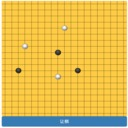
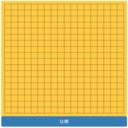
make corner look like corner

diff --git a/game.min.html b/game.min.html
@@ -101,17 +101,17 @@
               
                 <img style = "position:absolute;top:0;left:0;height:100%" ng-src = "imgs/pass0.gif" 
                      ng-show="passes === 0"
-					 ng-click="passClicked()">
+                     ng-click="passClicked()">
                     
                 
                 <img style = "position:absolute;top:0;left:0;height:100%" ng-src = "imgs/pass1.gif" 
                      ng-show="passes === 1"
-					 ng-click="passClicked()">
+                     ng-click="passClicked()">
                     
               
                 <img style = "position:absolute;top:0;left:0;height:100%" ng-src = "imgs/pass2.gif" 
                      ng-show="passes > 1"
-					 ng-click="passClicked()">
+                     ng-click="passClicked()">
         -->
                     
                
@@ -148,20 +148,147 @@
                 id="{{'board' + row + 'x' + col}}"
                 ng-class="{slowlyAppear: shouldSlowlyAppear(row, col),
                         black: board[row][col] === 'X', white: board[row][col] === 'O', grid:false}">
-
-                <svg id="Lines" width="101%" height="101%"
+         <div ng-if="(row != 0 && col != 0) && (row != numberOfRowsAndCols - 1 && col != numberOfRowsAndCols - 1)">
+                <svg id="Lines" width="100.6%" height="100.6%"
         style=" position:absolute; z-index: -1; ng-show: {{0}};">
       <line id="horizontalLine"
             x1="0%" y1="50%"
-            x2="101%" y2="50%"
+            x2="100.6%" y2="50%"
             stroke="black"
             stroke-width="2%"/>
       <line id="verticalLine"
             y1="0%" x1="50%"
-            y2="101%" x2="50%"
+            y2="100.6%" x2="50%"
             stroke="black"
             stroke-width="2%"/>
-    </svg>            
+    </svg>   
+    </div>
+    <div ng-if="(row == 0 && col == 0)">
+         <svg id="Lines" width="100.6%" height="100.6%"
+        style=" position:absolute; z-index: -1; ng-show: {{0}};">
+      <line id="horizontalLine"
+            x1="50%" y1="50%"
+            x2="100.6%" y2="50%"
+            stroke="black"
+            stroke-width="2%"/>
+      <line id="verticalLine"
+            y1="50%" x1="50%"
+            y2="100.6%" x2="50%"
+            stroke="black"
+            stroke-width="2%"/>
+    </svg> 
+    </div>
+    <div ng-if="row == numberOfRowsAndCols - 1 && col == numberOfRowsAndCols - 1">
+         <svg id="Lines" width="100.6%" height="100.6%"
+        style=" position:absolute; z-index: -1; ng-show: {{0}};">
+      <line id="horizontalLine"
+            x1="0%" y1="50%"
+            x2="50%" y2="50%"
+            stroke="black"
+            stroke-width="2%"/>
+      <line id="verticalLine"
+            y1="0%" x1="50%"
+            y2="50%" x2="50%"
+            stroke="black"
+            stroke-width="2%"/>
+    </svg> 
+    </div> 
+        <div ng-if="row == 0 && col == numberOfRowsAndCols - 1">
+         <svg id="Lines" width="100.6%" height="100.6%"
+        style=" position:absolute; z-index: -1; ng-show: {{0}};">
+      <line id="horizontalLine"
+            x1="0%" y1="50%"
+            x2="50%" y2="50%"
+            stroke="black"
+            stroke-width="2%"/>
+      <line id="verticalLine"
+            y1="50%" x1="50%"
+            y2="100.6%" x2="50%"
+            stroke="black"
+            stroke-width="2%"/>
+    </svg> 
+    </div>
+
+        <div ng-if="(row == numberOfRowsAndCols - 1) && col == 0">
+         <svg id="Lines" width="100.6%" height="100.6%"
+        style=" position:absolute; z-index: -1; ng-show: {{0}};">
+      <line id="horizontalLine"
+            x1="50%" y1="50%"
+            x2="100.6%" y2="50%"
+            stroke="black"
+            stroke-width="2%"/>
+      <line id="verticalLine"
+            y1="0%" x1="50%"
+            y2="50%" x2="50%"
+            stroke="black"
+            stroke-width="2%"/>
+    </svg> 
+    </div> 
+
+    <div ng-if="row == 0 && col != 0 && col != numberOfRowsAndCols - 1">
+         <svg id="Lines" width="100.6%" height="100.6%"
+        style=" position:absolute; z-index: -1; ng-show: {{0}};">
+      <line id="horizontalLine"
+            x1="0%" y1="50%"
+            x2="100.6%" y2="50%"
+            stroke="black"
+            stroke-width="2%"/>
+      <line id="verticalLine"
+            y1="50%" x1="50%"
+            y2="100.6%" x2="50%"
+            stroke="black"
+            stroke-width="2%"/>
+    </svg> 
+    </div> 
+
+        <div ng-if="row == numberOfRowsAndCols - 1 && col != 0 && col != numberOfRowsAndCols - 1">
+         <svg id="Lines" width="100.6%" height="100.6%"
+        style=" position:absolute; z-index: -1; ng-show: {{0}};">
+      <line id="horizontalLine"
+            x1="0%" y1="50%"
+            x2="100.6%" y2="50%"
+            stroke="black"
+            stroke-width="2%"/>
+      <line id="verticalLine"
+            y1="0%" x1="50%"
+            y2="50%" x2="50%"
+            stroke="black"
+            stroke-width="2%"/>
+    </svg> 
+    </div> 
+
+     <div ng-if="col == numberOfRowsAndCols - 1 && row != 0 && row != numberOfRowsAndCols - 1">
+         <svg id="Lines" width="100.6%" height="100.6%"
+        style=" position:absolute; z-index: -1; ng-show: {{0}};">
+      <line id="horizontalLine"
+            x1="0%" y1="50%"
+            x2="50%" y2="50%"
+            stroke="black"
+            stroke-width="2%"/>
+      <line id="verticalLine"
+            y1="0%" x1="50%"
+            y2="100.6%" x2="50%"
+            stroke="black"
+            stroke-width="2%"/>
+    </svg> 
+    </div>
+
+    <div ng-if="col == 0 && row != 0 && row != numberOfRowsAndCols - 1">
+         <svg id="Lines" width="100.6%" height="100.6%"
+        style=" position:absolute; z-index: -1; ng-show: {{0}};">
+      <line id="horizontalLine"
+            x1="50%" y1="50%"
+            x2="100.6%" y2="50%"
+            stroke="black"
+            stroke-width="2%"/>
+      <line id="verticalLine"
+            y1="0%" x1="50%"
+            y2="100.6%" x2="50%"
+            stroke="black"
+            stroke-width="2%"/>
+    </svg> 
+    </div>
+
             </div>
         </div>
     </div>
@@ -170,4 +297,4 @@
     </div>
     </div>
     </body>
-</html>
+

diff --git a/game.html b/game.html
@@ -165,20 +165,147 @@
                 id="{{'board' + row + 'x' + col}}"
                 ng-class="{slowlyAppear: shouldSlowlyAppear(row, col),
                         black: board[row][col] === 'X', white: board[row][col] === 'O', grid:false}">
-
-                <svg id="Lines" width="101%" height="101%"
+         <div ng-if="(row != 0 && col != 0) && (row != numberOfRowsAndCols - 1 && col != numberOfRowsAndCols - 1)">
+                <svg id="Lines" width="100.6%" height="100.6%"
         style=" position:absolute; z-index: -1; ng-show: {{0}};">
       <line id="horizontalLine"
             x1="0%" y1="50%"
-            x2="101%" y2="50%"
+            x2="100.6%" y2="50%"
             stroke="black"
             stroke-width="2%"/>
       <line id="verticalLine"
             y1="0%" x1="50%"
-            y2="101%" x2="50%"
+            y2="100.6%" x2="50%"
             stroke="black"
             stroke-width="2%"/>
-    </svg>            
+    </svg>   
+    </div>
+    <div ng-if="(row == 0 && col == 0)">
+         <svg id="Lines" width="100.6%" height="100.6%"
+        style=" position:absolute; z-index: -1; ng-show: {{0}};">
+      <line id="horizontalLine"
+            x1="50%" y1="50%"
+            x2="100.6%" y2="50%"
+            stroke="black"
+            stroke-width="2%"/>
+      <line id="verticalLine"
+            y1="50%" x1="50%"
+            y2="100.6%" x2="50%"
+            stroke="black"
+            stroke-width="2%"/>
+    </svg> 
+    </div>
+    <div ng-if="row == numberOfRowsAndCols - 1 && col == numberOfRowsAndCols - 1">
+         <svg id="Lines" width="100.6%" height="100.6%"
+        style=" position:absolute; z-index: -1; ng-show: {{0}};">
+      <line id="horizontalLine"
+            x1="0%" y1="50%"
+            x2="50%" y2="50%"
+            stroke="black"
+            stroke-width="2%"/>
+      <line id="verticalLine"
+            y1="0%" x1="50%"
+            y2="50%" x2="50%"
+            stroke="black"
+            stroke-width="2%"/>
+    </svg> 
+    </div> 
+        <div ng-if="row == 0 && col == numberOfRowsAndCols - 1">
+         <svg id="Lines" width="100.6%" height="100.6%"
+        style=" position:absolute; z-index: -1; ng-show: {{0}};">
+      <line id="horizontalLine"
+            x1="0%" y1="50%"
+            x2="50%" y2="50%"
+            stroke="black"
+            stroke-width="2%"/>
+      <line id="verticalLine"
+            y1="50%" x1="50%"
+            y2="100.6%" x2="50%"
+            stroke="black"
+            stroke-width="2%"/>
+    </svg> 
+    </div>
+
+        <div ng-if="(row == numberOfRowsAndCols - 1) && col == 0">
+         <svg id="Lines" width="100.6%" height="100.6%"
+        style=" position:absolute; z-index: -1; ng-show: {{0}};">
+      <line id="horizontalLine"
+            x1="50%" y1="50%"
+            x2="100.6%" y2="50%"
+            stroke="black"
+            stroke-width="2%"/>
+      <line id="verticalLine"
+            y1="0%" x1="50%"
+            y2="50%" x2="50%"
+            stroke="black"
+            stroke-width="2%"/>
+    </svg> 
+    </div> 
+
+    <div ng-if="row == 0 && col != 0 && col != numberOfRowsAndCols - 1">
+         <svg id="Lines" width="100.6%" height="100.6%"
+        style=" position:absolute; z-index: -1; ng-show: {{0}};">
+      <line id="horizontalLine"
+            x1="0%" y1="50%"
+            x2="100.6%" y2="50%"
+            stroke="black"
+            stroke-width="2%"/>
+      <line id="verticalLine"
+            y1="50%" x1="50%"
+            y2="100.6%" x2="50%"
+            stroke="black"
+            stroke-width="2%"/>
+    </svg> 
+    </div> 
+
+        <div ng-if="row == numberOfRowsAndCols - 1 && col != 0 && col != numberOfRowsAndCols - 1">
+         <svg id="Lines" width="100.6%" height="100.6%"
+        style=" position:absolute; z-index: -1; ng-show: {{0}};">
+      <line id="horizontalLine"
+            x1="0%" y1="50%"
+            x2="100.6%" y2="50%"
+            stroke="black"
+            stroke-width="2%"/>
+      <line id="verticalLine"
+            y1="0%" x1="50%"
+            y2="50%" x2="50%"
+            stroke="black"
+            stroke-width="2%"/>
+    </svg> 
+    </div> 
+
+     <div ng-if="col == numberOfRowsAndCols - 1 && row != 0 && row != numberOfRowsAndCols - 1">
+         <svg id="Lines" width="100.6%" height="100.6%"
+        style=" position:absolute; z-index: -1; ng-show: {{0}};">
+      <line id="horizontalLine"
+            x1="0%" y1="50%"
+            x2="50%" y2="50%"
+            stroke="black"
+            stroke-width="2%"/>
+      <line id="verticalLine"
+            y1="0%" x1="50%"
+            y2="100.6%" x2="50%"
+            stroke="black"
+            stroke-width="2%"/>
+    </svg> 
+    </div>
+
+    <div ng-if="col == 0 && row != 0 && row != numberOfRowsAndCols - 1">
+         <svg id="Lines" width="100.6%" height="100.6%"
+        style=" position:absolute; z-index: -1; ng-show: {{0}};">
+      <line id="horizontalLine"
+            x1="50%" y1="50%"
+            x2="100.6%" y2="50%"
+            stroke="black"
+            stroke-width="2%"/>
+      <line id="verticalLine"
+            y1="0%" x1="50%"
+            y2="100.6%" x2="50%"
+            stroke="black"
+            stroke-width="2%"/>
+    </svg> 
+    </div>
+
             </div>
         </div>
     </div>
